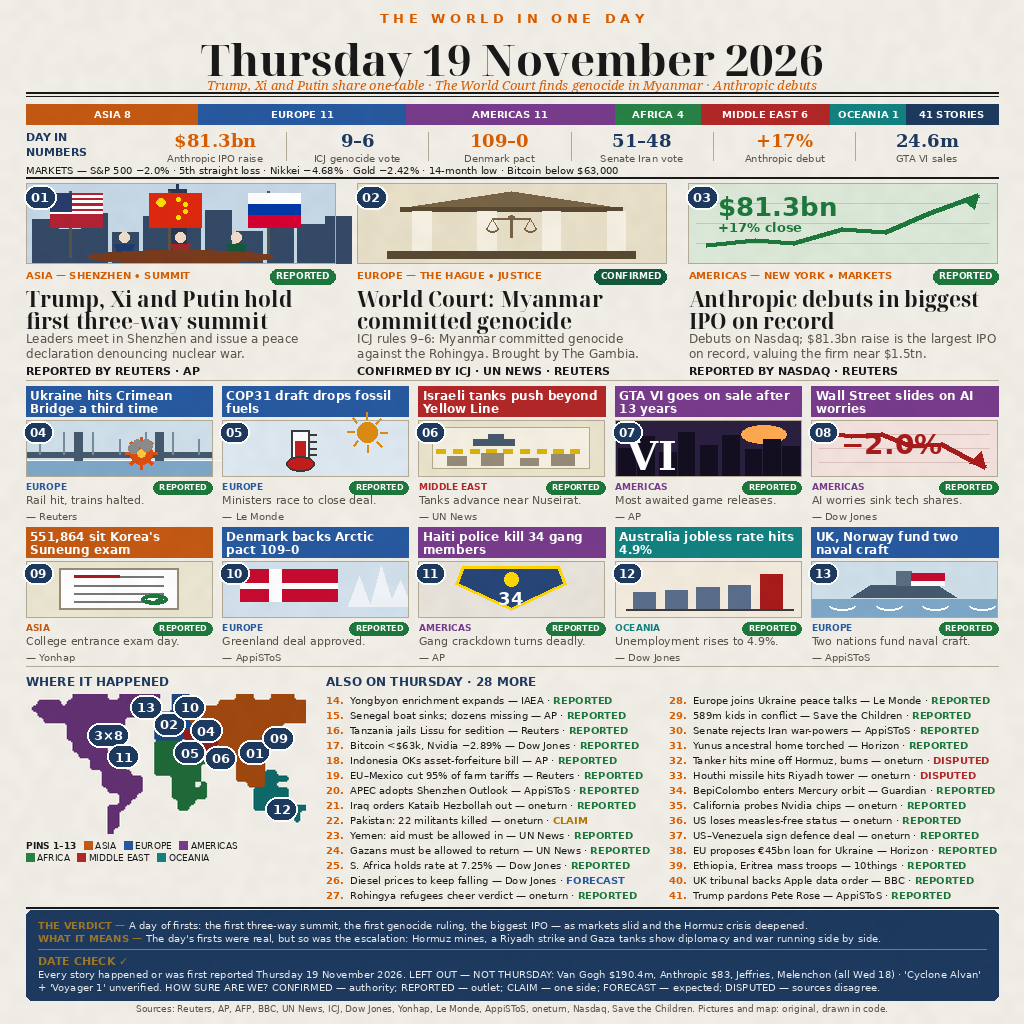
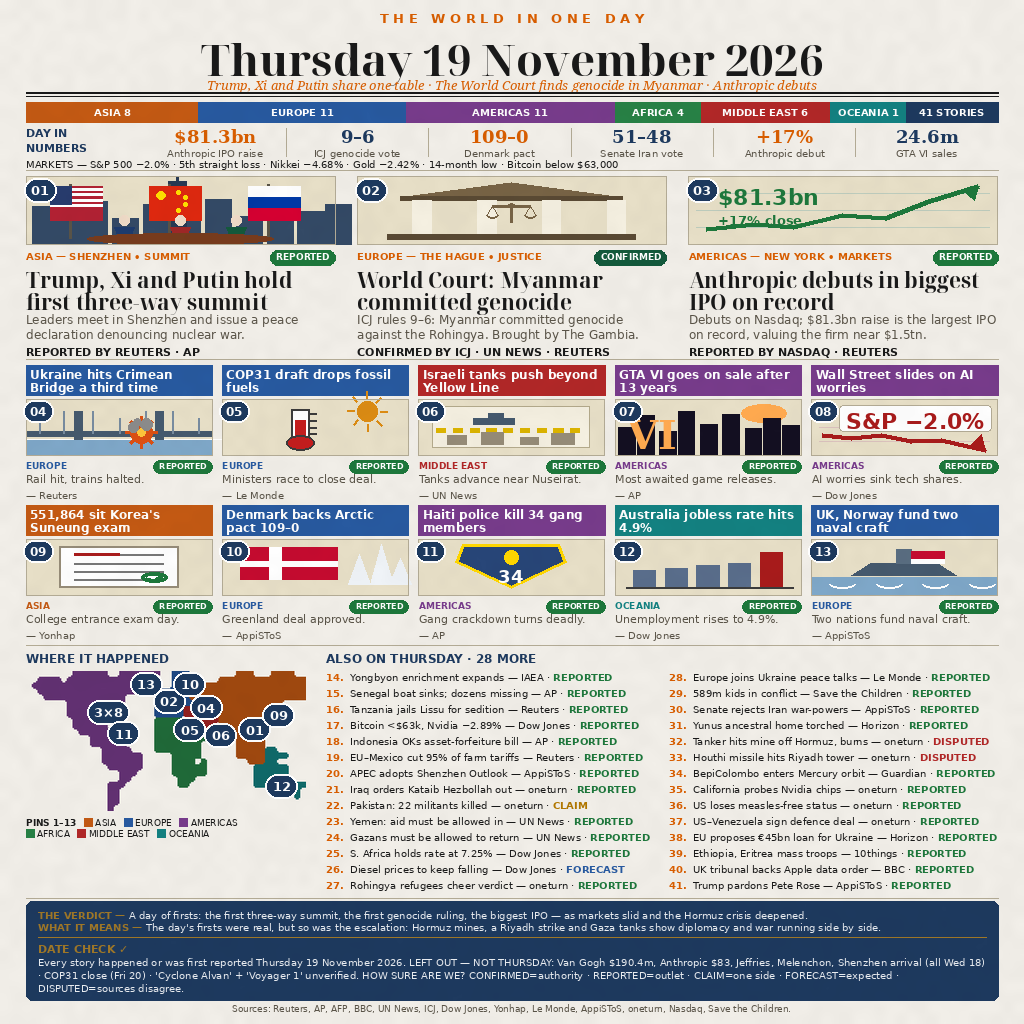
Fix S&P label, sharpen date check, unify panels

diff --git a/build_frontpage.py b/build_frontpage.py
@@ -224,7 +224,8 @@ PINS = [
 ]
 
 EXCLUSIONS = ("LEFT OUT \u2014 NOT THURSDAY: Van Gogh $190.4m, "
-              "Anthropic $83, Jeffries, Melenchon (all Wed 18) \u00b7 "
+              "Anthropic $83, Jeffries, Melenchon, Shenzhen arrival "
+              "(all Wed 18) \u00b7 COP31 close (Fri 20) \u00b7 "
               "'Cyclone Alvan' + 'Voyager 1' unverified.")
 
 # Editorial design system (editorial-card-generator skill, design only):
@@ -408,9 +409,10 @@ def flag_ru(d, x, y, w, h):
 
 
 def art(d, kind, x, y, w, h, P):
+    # One panel tone for every illustration: the region colours live
+    # in the banners, band and map, not in the art backgrounds.
     d.rectangle([x, y, x + w, y + h], fill=P["panel"])
     if kind == "summit":
-        d.rectangle([x, y, x + w, y + h], fill=(199, 216, 230))
         base = y + h
         sky = [(0.02, 0.55), (0.10, 0.42), (0.18, 0.62), (0.28, 0.38),
                (0.38, 0.58), (0.48, 0.45), (0.58, 0.66), (0.68, 0.40),
@@ -439,7 +441,6 @@ def art(d, kind, x, y, w, h, P):
                        (fx - 7, ty + 2)], fill=c)
         d.ellipse([x + w * 0.20, ty, x + w * 0.80, y + h], fill=(120, 60, 30))
     elif kind == "court":
-        d.rectangle([x, y, x + w, y + h], fill=(232, 224, 200))
         cx = x + w // 2
         d.polygon([(cx - w * 0.34, y + h * 0.30), (cx + w * 0.34, y + h * 0.30),
                    (cx, y + h * 0.10)], fill=(120, 100, 70))
@@ -468,7 +469,6 @@ def art(d, kind, x, y, w, h, P):
             d.arc([px - 6, y + h * 0.52, px + 6, y + h * 0.62], 0, 180,
                   fill=(120, 100, 70), width=2)
     elif kind == "ipo":
-        d.rectangle([x, y, x + w, y + h], fill=(220, 232, 216))
         for gy in (0.25, 0.5, 0.75):
             d.line([x + 8, y + h * gy, x + w - 8, y + h * gy],
                    fill=(190, 205, 190), width=1)
@@ -489,7 +489,6 @@ def art(d, kind, x, y, w, h, P):
         d.text((x + 30, y + 36), "+17% close", font=SANS_B(13),
                fill=(30, 120, 60))
     elif kind == "bridge":
-        d.rectangle([x, y, x + w, y + h], fill=(207, 224, 234))
         d.rectangle([x, y + h * 0.72, x + w, y + h], fill=(127, 168, 201))
         for i in range(5):
             d.line([x + w * i / 4, y + h * 0.72, x + w * (i + 1) / 4,
@@ -520,7 +519,6 @@ def art(d, kind, x, y, w, h, P):
                       fill=(140, 140, 140))
     elif kind == "globe":
         # COP31 thermometer: mercury rising in a tube, sun above (heat)
-        d.rectangle([x, y, x + w, y + h], fill=(221, 232, 240))
         cx = x + w * 0.42
         d.rectangle([cx - 9, y + h * 0.18, cx + 9, y + h * 0.70],
                     outline=(60, 60, 60), width=2, fill=(255, 255, 255))
@@ -545,7 +543,6 @@ def art(d, kind, x, y, w, h, P):
                   fill=(169, 28, 28))
         d.ellipse([cx - 10, cy - 10, cx + 10, cy + 10], fill=(255, 255, 255))
     elif kind == "gta":
-        d.rectangle([x, y, x + w, y + h], fill=(43, 32, 64))
         d.ellipse([x + w * 0.68, y + h * 0.10, x + w * 0.92, y + h * 0.42],
                   fill=(255, 170, 80))
         base = y + h
@@ -555,24 +552,34 @@ def art(d, kind, x, y, w, h, P):
             bw = w * 0.09
             d.rectangle([x + w * fx, base - h * fh, x + w * fx + bw, base],
                         fill=(20, 16, 34))
+        # Sunset orange: reads against both the light panel and the
+        # dark skyline bars (navy on navy was invisible).
         d.text((x + 12, y + h - 44), "VI", font=SERIF_B(40),
-               fill=(255, 255, 255))
+               fill=(255, 170, 80))
     elif kind == "down":
-        d.rectangle([x, y, x + w, y + h], fill=(243, 226, 222))
+        # The S&P figure, on a clean white chip: the old label sat in
+        # the chart itself, same red as the line, and the line crossed
+        # the glyphs - a vision judge read "-2.0%" as "-2.6%". The
+        # chip is drawn AFTER the line, so no stroke can touch a
+        # glyph; the "S&P" prefix ties the number to the ticker.
         for gy in (0.25, 0.5, 0.75):
             d.line([x + 8, y + h * gy, x + w - 8, y + h * gy],
                    fill=(220, 195, 190), width=1)
-        pts = [(0.06, 0.22), (0.22, 0.30), (0.38, 0.26), (0.54, 0.48),
-               (0.70, 0.44), (0.84, 0.68), (0.94, 0.84)]
+        pts = [(0.06, 0.66), (0.22, 0.70), (0.38, 0.66), (0.54, 0.76),
+               (0.70, 0.74), (0.84, 0.84), (0.94, 0.92)]
         xy = [(x + w * px, y + h * py) for px, py in pts]
         d.line(xy, fill=(169, 28, 28), width=5, joint="curve")
         ax, ay = xy[-1]
         d.polygon([(ax, ay), (ax - 16, ay - 4), (ax - 4, ay - 16)],
                   fill=(169, 28, 28))
-        # x+30 clears the number badge (its right edge is x+22)
-        d.text((x + 30, y + 8), "\u22122.0%",
-               font=SANS_B(28) if h >= 48 else SANS_B(24),
-               fill=(169, 28, 28))
+        lab = "S&P \u22122.0%"
+        lfnt = SANS_B(22) if h >= 48 else SANS_B(18)
+        tw = int(lfnt.getlength(lab))
+        # x+28 clears the number badge (its right edge is x+23)
+        d.rounded_rectangle([x + 28, y + 6, x + 28 + tw + 14, y + 32],
+                            radius=4, fill=(255, 255, 255),
+                            outline=P["hair"], width=1)
+        d.text((x + 35, y + 9), lab, font=lfnt, fill=(169, 28, 28))
     elif kind == "frame":
         d.rectangle([x, y, x + w, y + h], fill=(239, 230, 210))
         d.rectangle([x + 8, y + 6, x + w - 8, y + h - 6],
@@ -588,7 +595,6 @@ def art(d, kind, x, y, w, h, P):
             d.ellipse([sx - 2, y + h * 0.58, sx + 12, y + h * 0.72],
                       fill=(255, 210, 60))
     elif kind == "exam":
-        d.rectangle([x, y, x + w, y + h], fill=(235, 230, 210))
         d.rectangle([x + w * 0.18, y + h * 0.14, x + w * 0.82, y + h * 0.86],
                     fill=(255, 255, 255), outline=(150, 140, 120), width=2)
         for i in range(4):
@@ -602,7 +608,6 @@ def art(d, kind, x, y, w, h, P):
         d.line([x + w * 0.65, y + h * 0.70, x + w * 0.69, y + h * 0.74,
                 x + w * 0.74, y + h * 0.64], fill=(30, 120, 60), width=4)
     elif kind == "yellowline":
-        d.rectangle([x, y, x + w, y + h], fill=(235, 228, 205))
         d.rectangle([x + w * 0.08, y + h * 0.14, x + w * 0.92, y + h * 0.86],
                     fill=(245, 240, 225), outline=(180, 170, 140), width=1)
         for i in range(9):
@@ -619,7 +624,6 @@ def art(d, kind, x, y, w, h, P):
                          x + w * (bx + bw), y + h * 0.82],
                         fill=(150, 140, 120))
     elif kind == "flagdk":
-        d.rectangle([x, y, x + w, y + h], fill=(210, 225, 235))
         fx, fy, fw, fh = x + w * 0.10, y + h * 0.16, w * 0.52, h * 0.56
         d.rectangle([fx, fy, fx + fw, fy + fh], fill=(198, 12, 48))
         d.rectangle([fx + fw * 0.30, fy, fx + fw * 0.42, fy + fh],
@@ -631,7 +635,6 @@ def art(d, kind, x, y, w, h, P):
             d.polygon([(bx, y + h * 0.82), (bx + w * 0.06, y + h * (0.82 - mh)),
                        (bx + w * 0.12, y + h * 0.82)], fill=(240, 244, 248))
     elif kind == "ship":
-        d.rectangle([x, y, x + w, y + h], fill=(207, 224, 234))
         d.rectangle([x, y + h * 0.68, x + w, y + h], fill=(127, 168, 201))
         d.polygon([(x + w * 0.22, y + h * 0.66), (x + w * 0.78, y + h * 0.66),
                    (x + w * 0.68, y + h * 0.44), (x + w * 0.32, y + h * 0.44)],
@@ -646,7 +649,6 @@ def art(d, kind, x, y, w, h, P):
             d.arc([x + w * wx, y + h * 0.72, x + w * (wx + 0.14), y + h * 0.88],
                   0, 180, fill=(255, 255, 255), width=2)
     elif kind == "bars":
-        d.rectangle([x, y, x + w, y + h], fill=(243, 236, 222))
         base = y + h * 0.86
         vals = (0.30, 0.34, 0.38, 0.42, 0.62)
         for i, v in enumerate(vals):
@@ -657,7 +659,6 @@ def art(d, kind, x, y, w, h, P):
         d.line([x + w * 0.06, base, x + w * 0.96, base], fill=(60, 60, 60),
                width=2)
     elif kind == "shield":
-        d.rectangle([x, y, x + w, y + h], fill=(232, 228, 220))
         cx = x + w // 2
         d.polygon([(cx - w * 0.26, y + h * 0.10), (cx + w * 0.26, y + h * 0.10),
                    (cx + w * 0.30, y + h * 0.42), (cx, y + h * 0.88),
@@ -752,7 +753,7 @@ def draw_page(variant, lead_h, card_h, brief_size):
         rule(d, M, W - M, 92, P["ink"], 2)
         rule(d, M, W - M, 96, P["ink"], 1)
         y = 96
-    y += 8
+    y += 6
 
     # ---- region band: one full-width colour-coded strip, segment widths
     # proportional to story counts (min 76px so the smallest label fits),
@@ -776,7 +777,7 @@ def draw_page(variant, lead_h, card_h, brief_size):
     d.rectangle([tx, y, W - M, y + 20], fill=P["navy"])
     d.text((tx + (W - M - tx) // 2, y + 10), f"{total} STORIES",
            font=SANS_B(10), fill=(255, 255, 255), anchor="mm")
-    y += 26
+    y += 24
 
     # ---- day in numbers + markets: ONE band, not two modules. Six
     # figures in a row, and the market moves as a ticker line inside the
@@ -789,16 +790,16 @@ def draw_page(variant, lead_h, card_h, brief_size):
         cx = num_x + colw * i + colw / 2
         d.text((cx, top), num, font=SERIF_B(18),
                fill=P["accent"] if i % 2 == 0 else P["navy"], anchor="ma")
-        d.text((cx, top + 22), lab, font=SANS(10),
+        d.text((cx, top + 21), lab, font=SANS(10),
                fill=P["muted"], anchor="ma")
         if i:
             d.line([(num_x + colw * i, top + 2),
                     (num_x + colw * i, top + 30)],
                    fill=P["hair"], width=1)
-    y = top + 34
+    y = top + 32
     d.text((M, y), MARKETS_TICKER, font=SANS(10), fill=P["ink"])
-    y += 13
-    rule(d, M, W - M, y, P["ink"], 2)
+    y += 12
+    rule(d, M, W - M, y, P["hair"], 1)
     y += 6
 
     # ---- timeline strip (2b only; local times, as reported) - one thin
@@ -810,7 +811,7 @@ def draw_page(variant, lead_h, card_h, brief_size):
             parts.append(f"{t} {place} {what}")
         d.text((M + 150, y), "  \u00b7  ".join(parts), font=SANS(10),
                fill=P["ink"])
-        y += 12
+        y += 11
 
     # ---- 3 lead stories
     gutter = 22
@@ -837,7 +838,7 @@ def draw_page(variant, lead_h, card_h, brief_size):
         # prominent sourcing: the claim is reported, not invented - the
         # outlets are named in bold ink, not a small grey dash.
         d.text((x0, yy), L["src_line"], font=SANS_B(11), fill=P["ink"])
-    y = lead_top + lead_h + 6 + 15 + max_h * 22 + 3 + max_d * 15 + 3 + 12 + 4
+    y = lead_top + lead_h + 6 + 15 + max_h * 22 + 3 + max_d * 15 + 3 + 10 + 4
     rule(d, M, W - M, y, P["hair"], 1)
     y += 6
 
@@ -862,7 +863,7 @@ def draw_page(variant, lead_h, card_h, brief_size):
     for i, C in enumerate(CARDS):
         r, c = divmod(i, 5)
         x0 = M + c * (gw + cgut)
-        y0 = card_top + sum(row_h[:r]) + r * 4
+        y0 = card_top + sum(row_h[:r]) + r * 3
         d.rectangle([x0, y0, x0 + gw, y0 + BANNER_H],
                     fill=REGION_COLORS[C["region"]])
         text_lines(d, x0 + 4, y0 + 2, c_head[i], SANS_B(12),
@@ -883,7 +884,7 @@ def draw_page(variant, lead_h, card_h, brief_size):
                fill=P["muted"])
     y = card_top + sum(row_h) + 4 + 2
     rule(d, M, W - M, y, P["hair"], 1)
-    y += 8
+    y += 6
 
     # ---- bottom: coloured world map (numbered pins) + also list
     # Narrow map so the brief columns are wide enough for one-line briefs.
@@ -958,7 +959,7 @@ def draw_page(variant, lead_h, card_h, brief_size):
         lx += 11
         d.text((lx, ly), name, font=SANS(9), fill=P["ink"])
         lx += SANS(9).getlength(name) + 8
-    ly += 12
+    ly += 11
     lx = M
     for name in ("AFRICA", "MIDDLE EAST", "OCEANIA"):
         d.rectangle([lx, ly + 1, lx + 8, ly + 9], fill=REGION_COLORS[name])
@@ -989,7 +990,7 @@ def draw_page(variant, lead_h, card_h, brief_size):
             tail_w = bfnt.getlength(" \u00b7 ") + bstat.getlength(status)
             lines = wrap(bfnt, text, col_w - 24 - tail_w)
             for li, ln in enumerate(lines):
-                ly2 = yy + li * (brief_size + 5)
+                ly2 = yy + li * (brief_size + 6)
                 d.text((cx0 + 24, ly2), ln, font=bfnt, fill=P["ink"])
                 if li == len(lines) - 1:
                     tx = cx0 + 24 + bfnt.getlength(ln)
@@ -997,10 +998,10 @@ def draw_page(variant, lead_h, card_h, brief_size):
                     tx += bfnt.getlength(" \u00b7 ")
                     d.text((tx, ly2), status, font=bstat,
                            fill=STATUS_COLORS[status])
-            yy += len(lines) * (brief_size + 5)
+            yy += len(lines) * (brief_size + 6)
         max_ay = max(max_ay, yy)
     y = max_ay + 3
-    rule(d, M, W - M, y, P["ink"], 2)
+    rule(d, M, W - M, y, P["hair"], 1)
     y += 3
 
     # ---- date check (dark card: light-dark rhythm) + footer
@@ -1010,19 +1011,19 @@ def draw_page(variant, lead_h, card_h, brief_size):
     # the full status taxonomy, DISPUTED included.
     dc = ("Every story happened or was first reported Thursday "
           "19 November 2026.  " + EXCLUSIONS +
-          "  HOW SURE ARE WE? CONFIRMED \u2014 authority; "
-          "REPORTED \u2014 outlet; CLAIM \u2014 one side; "
-          "FORECAST \u2014 expected; DISPUTED \u2014 sources disagree.")
+          "  HOW SURE ARE WE? CONFIRMED=authority \u00b7 REPORTED=outlet "
+          "\u00b7 CLAIM=one side \u00b7 FORECAST=expected \u00b7 "
+          "DISPUTED=sources disagree.")
     dc_lines = wrap(SANS(10), dc, CW - 24)
     wim_label = "WHAT IT MEANS \u2014 "
     wim_lines = wrap(SANS(10), WHAT_IT_MEANS,
                      CW - 24 - SANS_B(10).getlength(wim_label))
     card_top = y
-    verdict_y = card_top + 9
-    wim_y = verdict_y + 13
-    dc_label_y = wim_y + len(wim_lines) * 13 + 9
+    verdict_y = card_top + 8
+    wim_y = verdict_y + 12
+    dc_label_y = wim_y + len(wim_lines) * 13 + 8
     dc_y = dc_label_y + 14
-    card_h = (dc_y - card_top) + len(dc_lines) * 13 + 6
+    card_h = (dc_y - card_top) + len(dc_lines) * 13 + 5
     d.rounded_rectangle([M, card_top, W - M, card_top + card_h], radius=6,
                         fill=P["navy"])
     vx = M + 12
@@ -1043,7 +1044,7 @@ def draw_page(variant, lead_h, card_h, brief_size):
     y = card_top + card_h + 3
     d.text((W // 2, y), "Sources: Reuters, AP, AFP, BBC, UN News, ICJ, Dow "
            "Jones, Yonhap, Le Monde, AppiSToS, oneturn, Nasdaq, Save the "
-           "Children. Pictures and map: original, drawn in code.",
+           "Children.",
            font=SANS(9), fill=P["muted"], anchor="ma")
     y += 11
     return img, y
